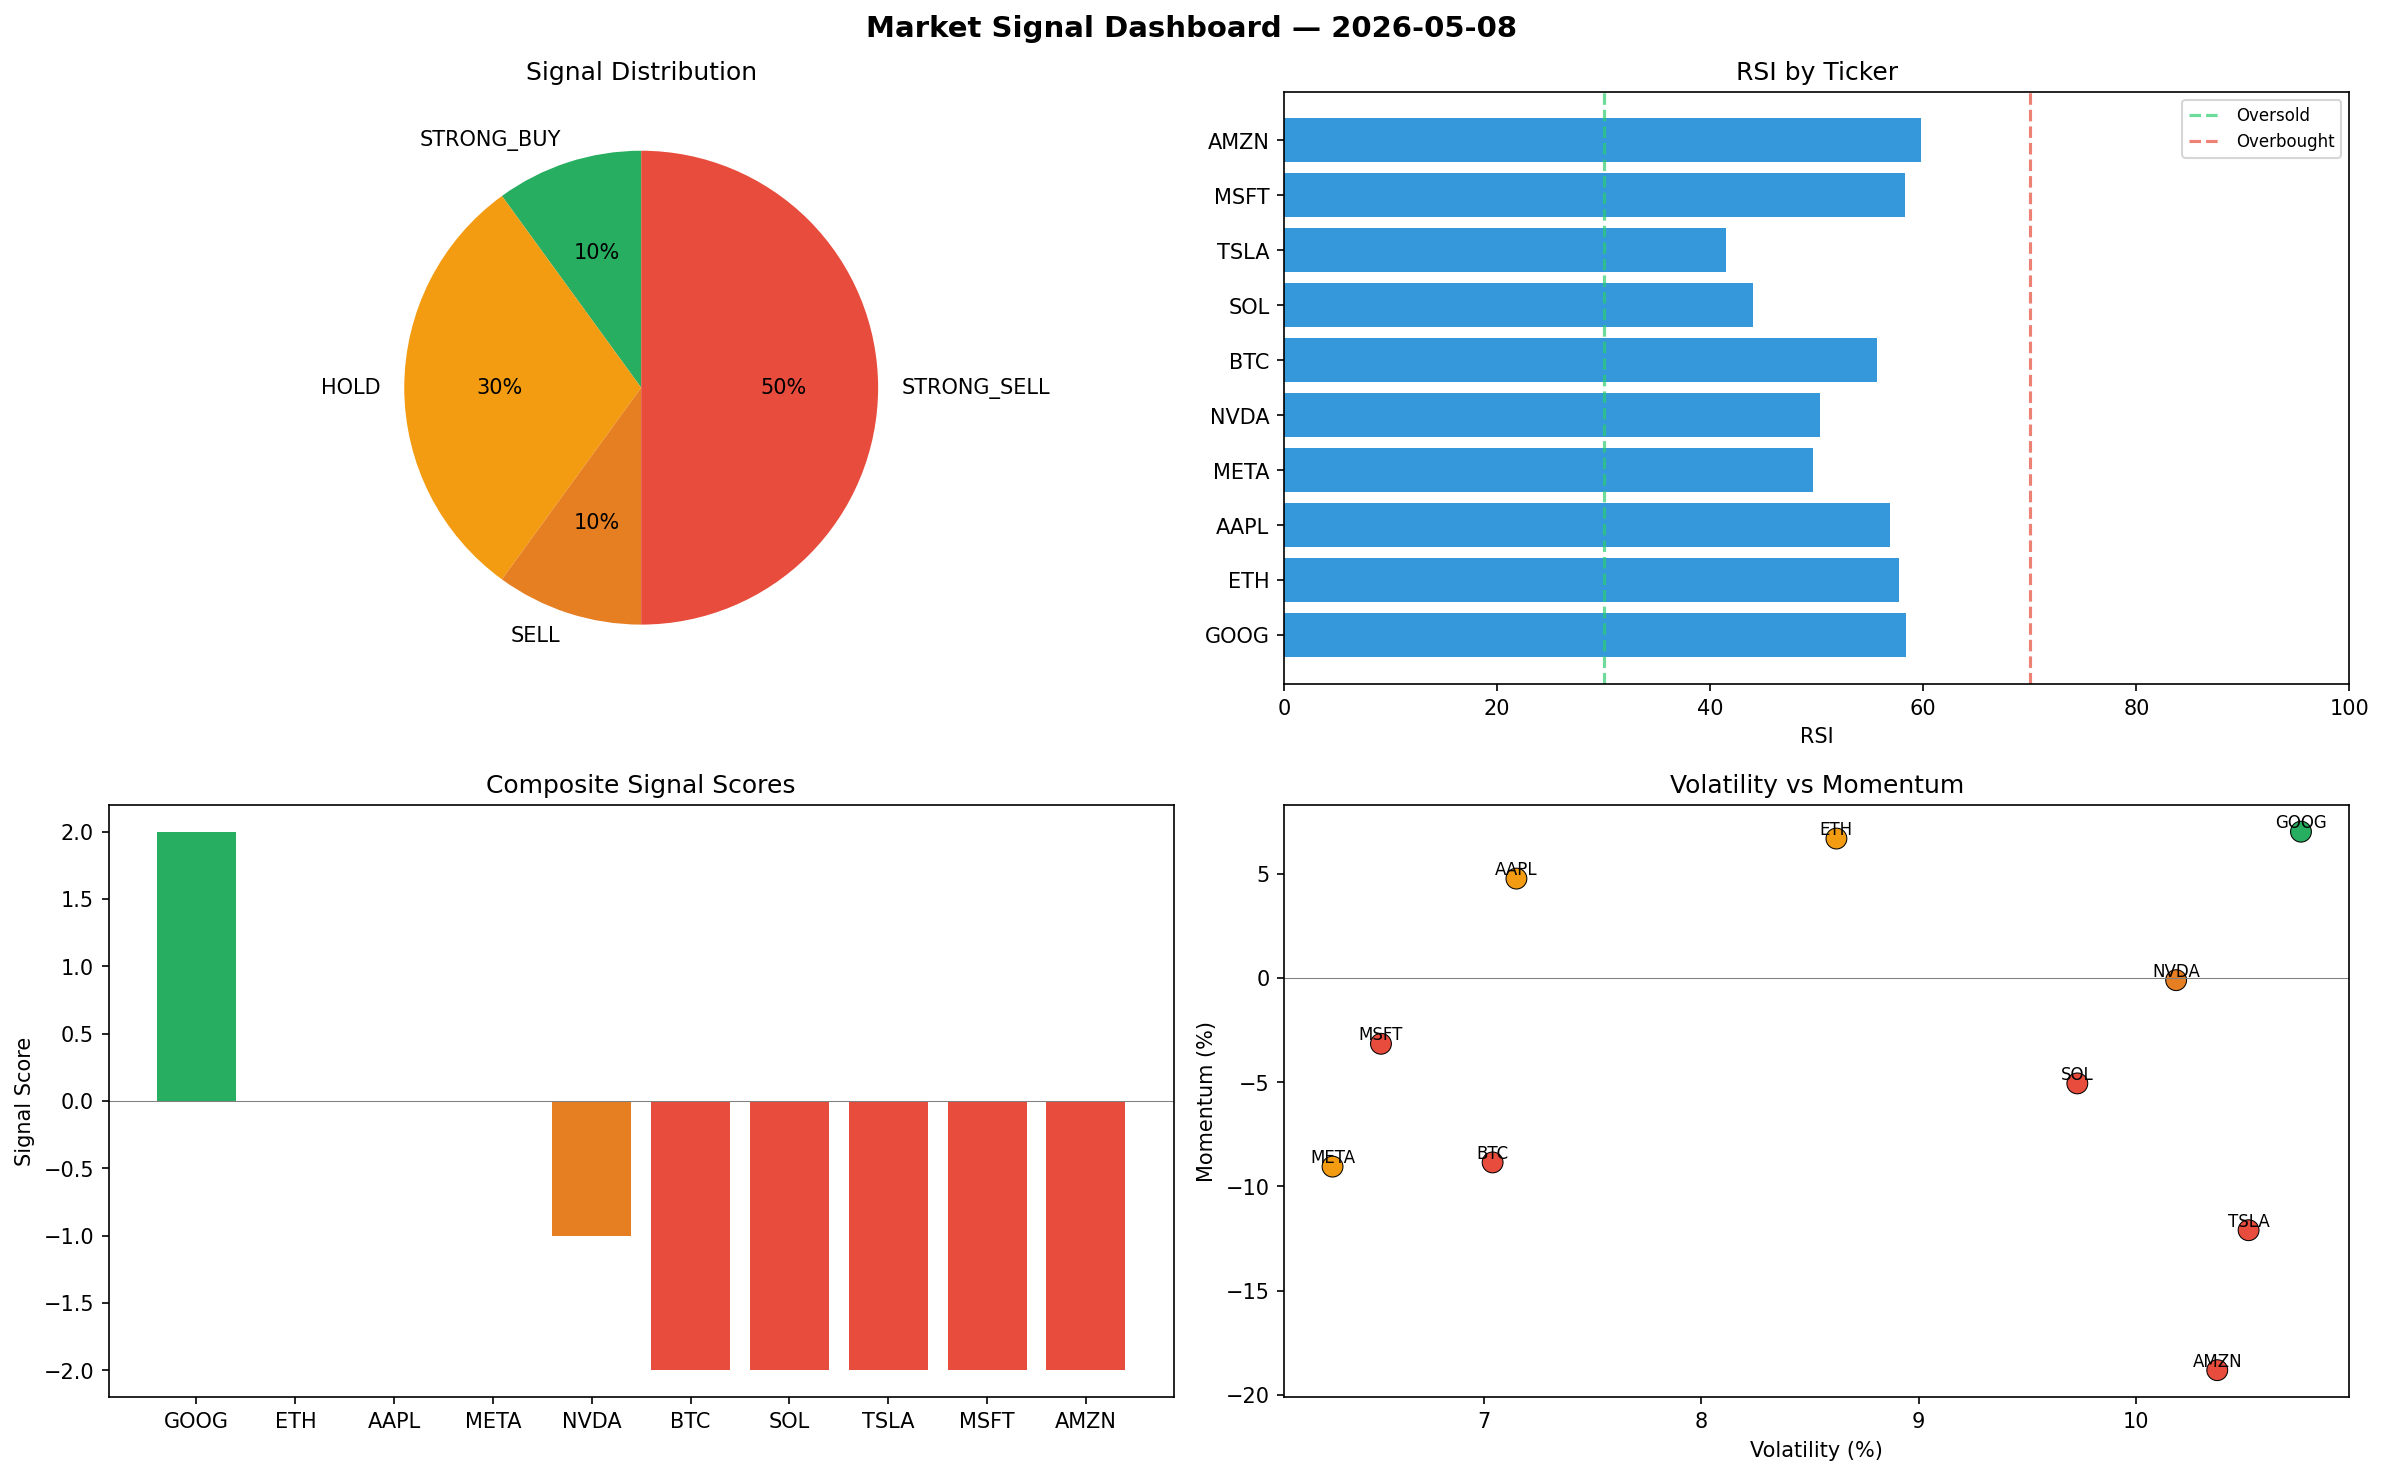
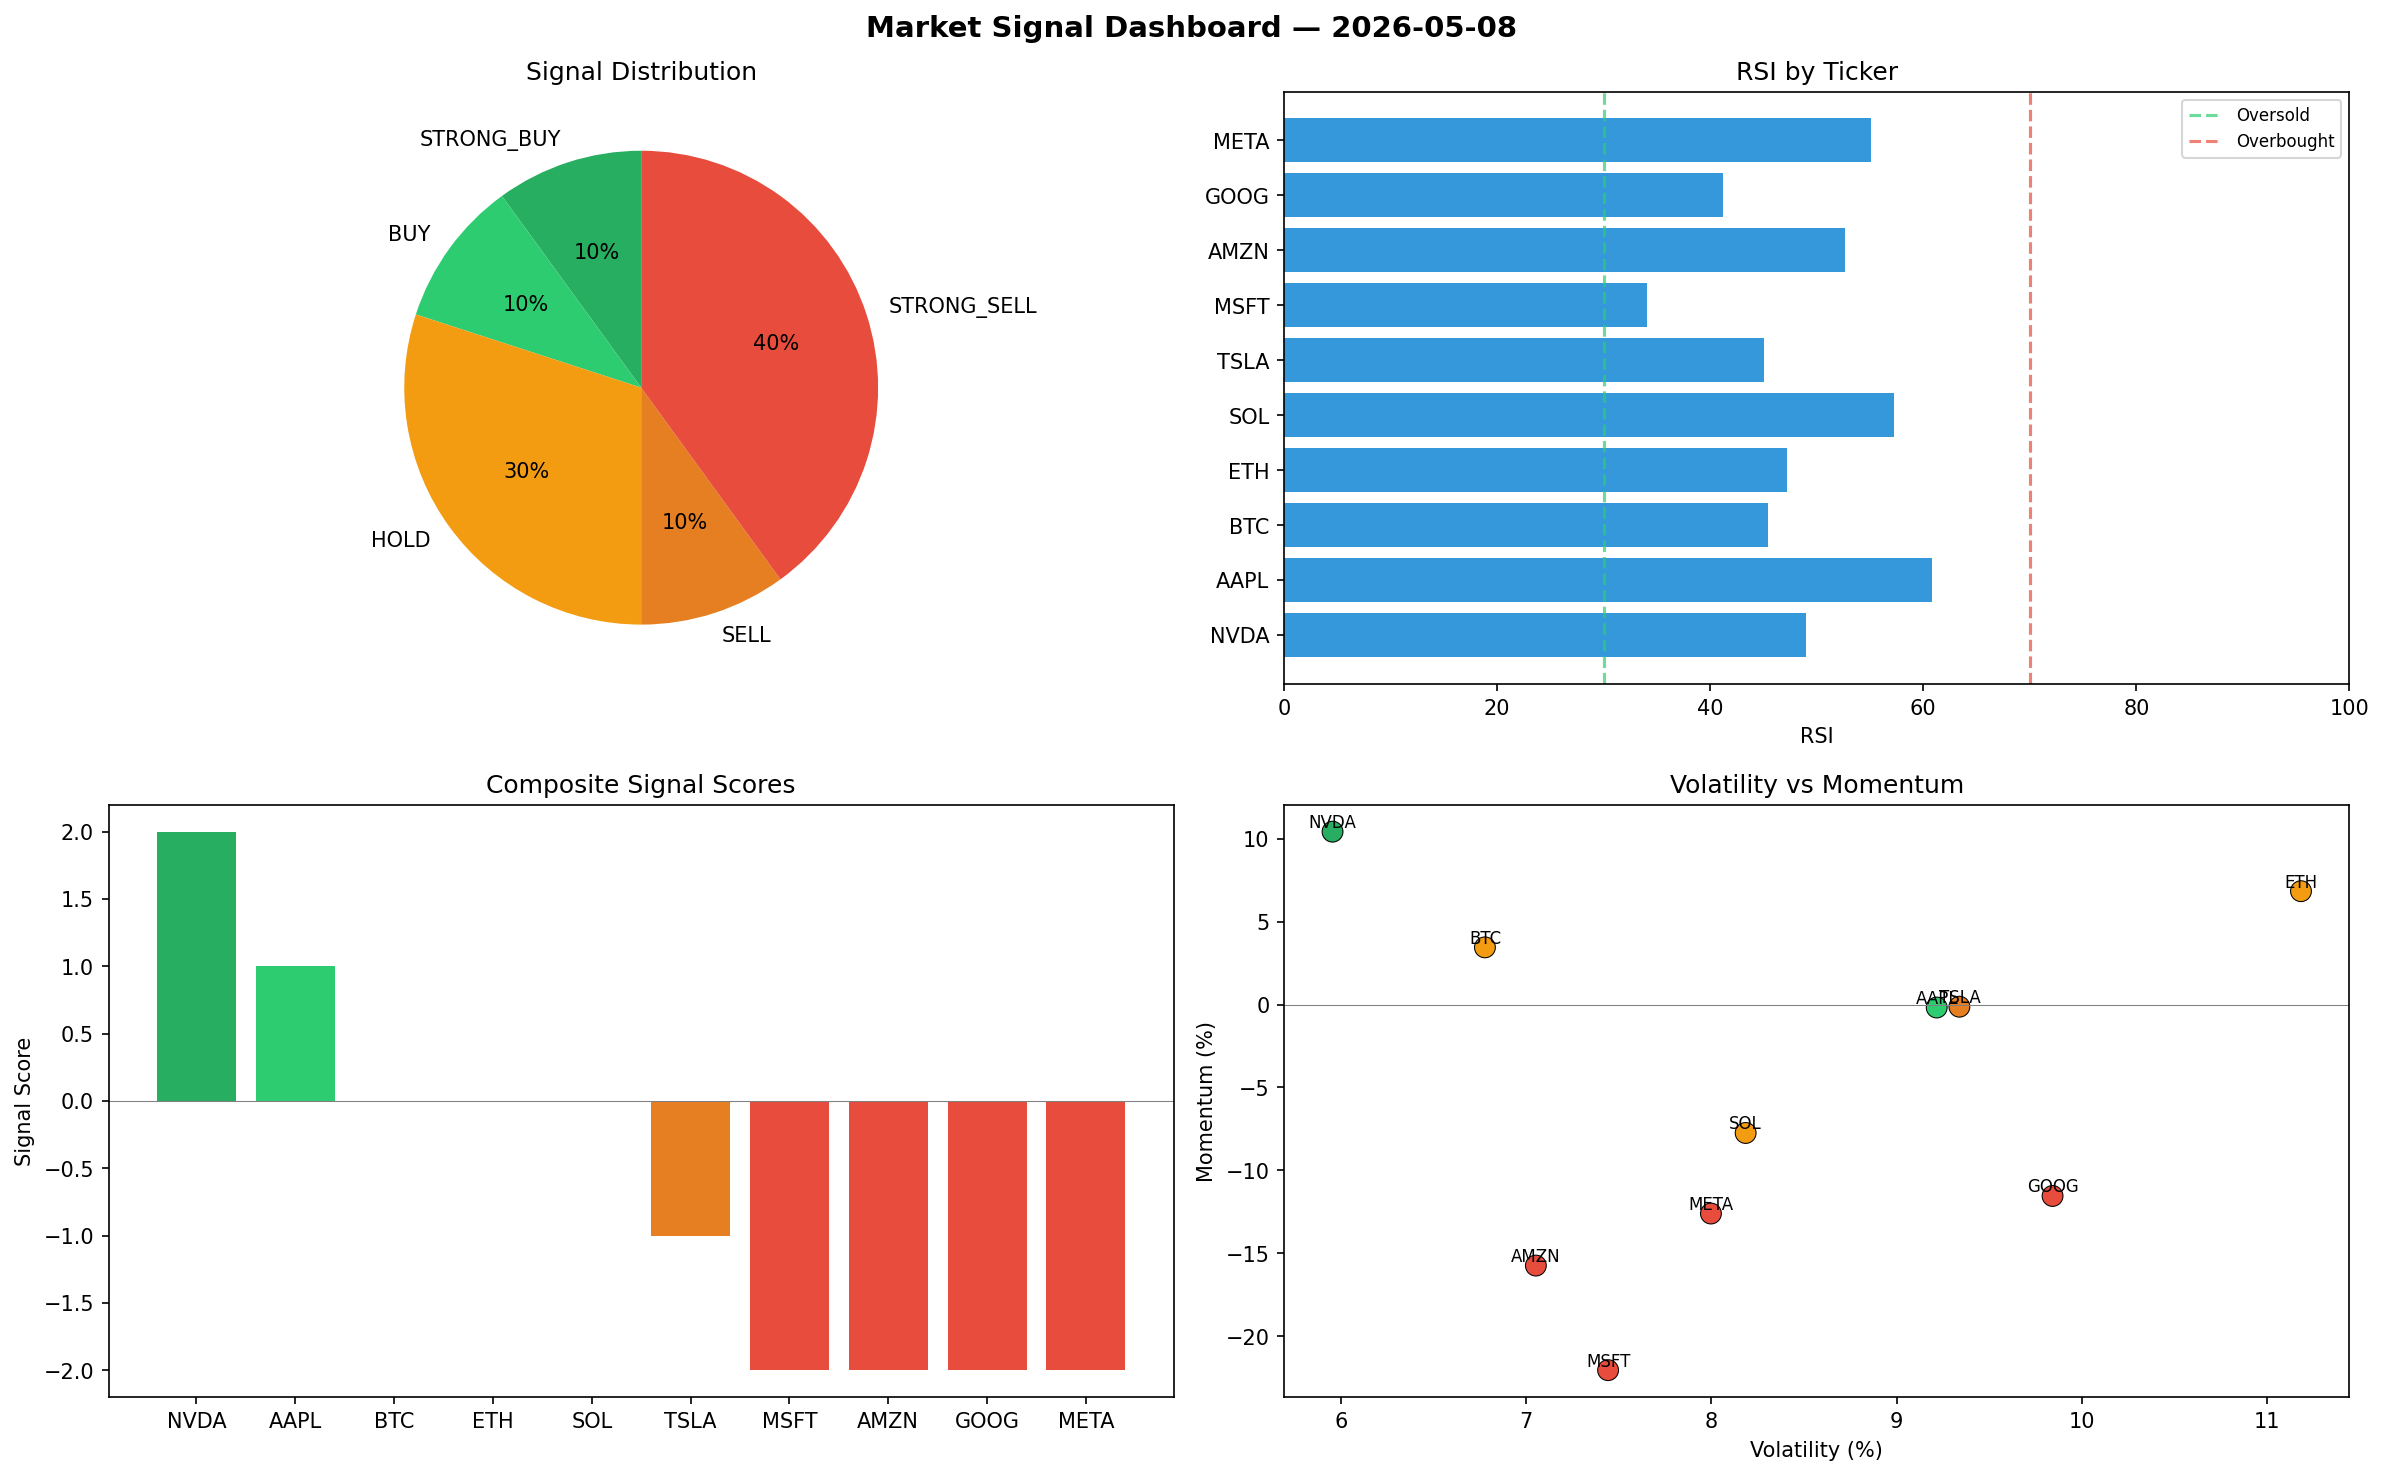
automated-bots: market signals 2026-05-08T10:01

diff --git a/logs/2026-05-08.md b/logs/2026-05-08.md
@@ -1,6 +1,6 @@
 # Market Signal Report — 2026-05-08
 
-**Run ID:** `9afb5deb81` | **Buy:** 1 | **Sell:** 6 | **Hold:** 3
+**Run ID:** `64ff331455` | **Buy:** 2 | **Sell:** 5 | **Hold:** 3
 
 ![Dashboard](2026-05-08_dashboard.png)
 
@@ -8,28 +8,28 @@
 
 | Ticker | Price | Signal | Score | RSI | Momentum | Confidence |
 |--------|-------|--------|-------|-----|----------|------------|
-| GOOG | $514.68 | **STRONG_BUY** | 2 | 58.41 | 0.0701 | 0.5 |
-| ETH | $996.94 | **HOLD** | 0 | 57.7 | 0.0668 | 0.0 |
-| AAPL | $2781.1 | **HOLD** | 0 | 56.89 | 0.0476 | 0.0 |
-| META | $974.72 | **HOLD** | 0 | 49.64 | -0.0905 | 0.0 |
-| NVDA | $2563.24 | **SELL** | -1 | 50.34 | -0.0011 | 0.25 |
-| BTC | $2330.79 | **STRONG_SELL** | -2 | 55.61 | -0.0885 | 0.5 |
-| SOL | $3191.47 | **STRONG_SELL** | -2 | 44.02 | -0.0506 | 0.5 |
-| TSLA | $1658.56 | **STRONG_SELL** | -2 | 41.5 | -0.121 | 0.5 |
-| MSFT | $3998.99 | **STRONG_SELL** | -2 | 58.26 | -0.0316 | 0.5 |
-| AMZN | $4070.12 | **STRONG_SELL** | -2 | 59.8 | -0.1881 | 0.5 |
+| NVDA | $229.57 | **STRONG_BUY** | 2 | 48.99 | 0.1043 | 0.5 |
+| AAPL | $1300.29 | **BUY** | 1 | 60.79 | -0.0018 | 0.25 |
+| BTC | $1450.61 | **HOLD** | 0 | 45.45 | 0.0345 | 0.0 |
+| ETH | $1151.11 | **HOLD** | 0 | 47.18 | 0.0684 | 0.0 |
+| SOL | $1218.42 | **HOLD** | 0 | 57.25 | -0.0775 | 0.0 |
+| TSLA | $4390.38 | **SELL** | -1 | 45.07 | -0.0013 | 0.25 |
+| MSFT | $3690.8 | **STRONG_SELL** | -2 | 34.08 | -0.2206 | 0.5 |
+| AMZN | $3347.89 | **STRONG_SELL** | -2 | 52.69 | -0.1575 | 0.5 |
+| GOOG | $1836.72 | **STRONG_SELL** | -2 | 41.17 | -0.1155 | 0.5 |
+| META | $546.99 | **STRONG_SELL** | -2 | 55.08 | -0.1261 | 0.5 |
 
 ## Delta vs Yesterday
 
 | Ticker | Today | Yesterday | Price Change | Signal Changed |
 |--------|-------|-----------|-------------|----------------|
-| GOOG | STRONG_BUY | BUY | 📉 -86.9% | ⚠ YES |
-| ETH | HOLD | STRONG_SELL | 📉 -50.5% | ⚠ YES |
-| AAPL | HOLD | STRONG_SELL | 📉 -26.14% | ⚠ YES |
-| META | HOLD | SELL | 📈 50.91% | ⚠ YES |
-| NVDA | SELL | STRONG_SELL | 📉 -25.15% | ⚠ YES |
-| BTC | STRONG_SELL | STRONG_SELL | 📉 -34.25% | — |
-| SOL | STRONG_SELL | STRONG_BUY | 📈 919.77% | ⚠ YES |
-| TSLA | STRONG_SELL | HOLD | 📈 163.04% | ⚠ YES |
-| MSFT | STRONG_SELL | HOLD | 📈 297.65% | ⚠ YES |
-| AMZN | STRONG_SELL | STRONG_SELL | 📈 223.94% | — |
+| NVDA | STRONG_BUY | STRONG_SELL | 📉 -93.3% | ⚠ YES |
+| AAPL | BUY | STRONG_SELL | 📉 -65.47% | ⚠ YES |
+| BTC | HOLD | STRONG_SELL | 📉 -59.08% | ⚠ YES |
+| ETH | HOLD | STRONG_SELL | 📉 -42.85% | ⚠ YES |
+| SOL | HOLD | STRONG_BUY | 📈 289.32% | ⚠ YES |
+| TSLA | SELL | HOLD | 📈 596.3% | ⚠ YES |
+| MSFT | STRONG_SELL | HOLD | 📈 267.01% | ⚠ YES |
+| AMZN | STRONG_SELL | STRONG_SELL | 📈 166.46% | — |
+| GOOG | STRONG_SELL | BUY | 📉 -53.26% | ⚠ YES |
+| META | STRONG_SELL | SELL | 📉 -15.31% | ⚠ YES |
